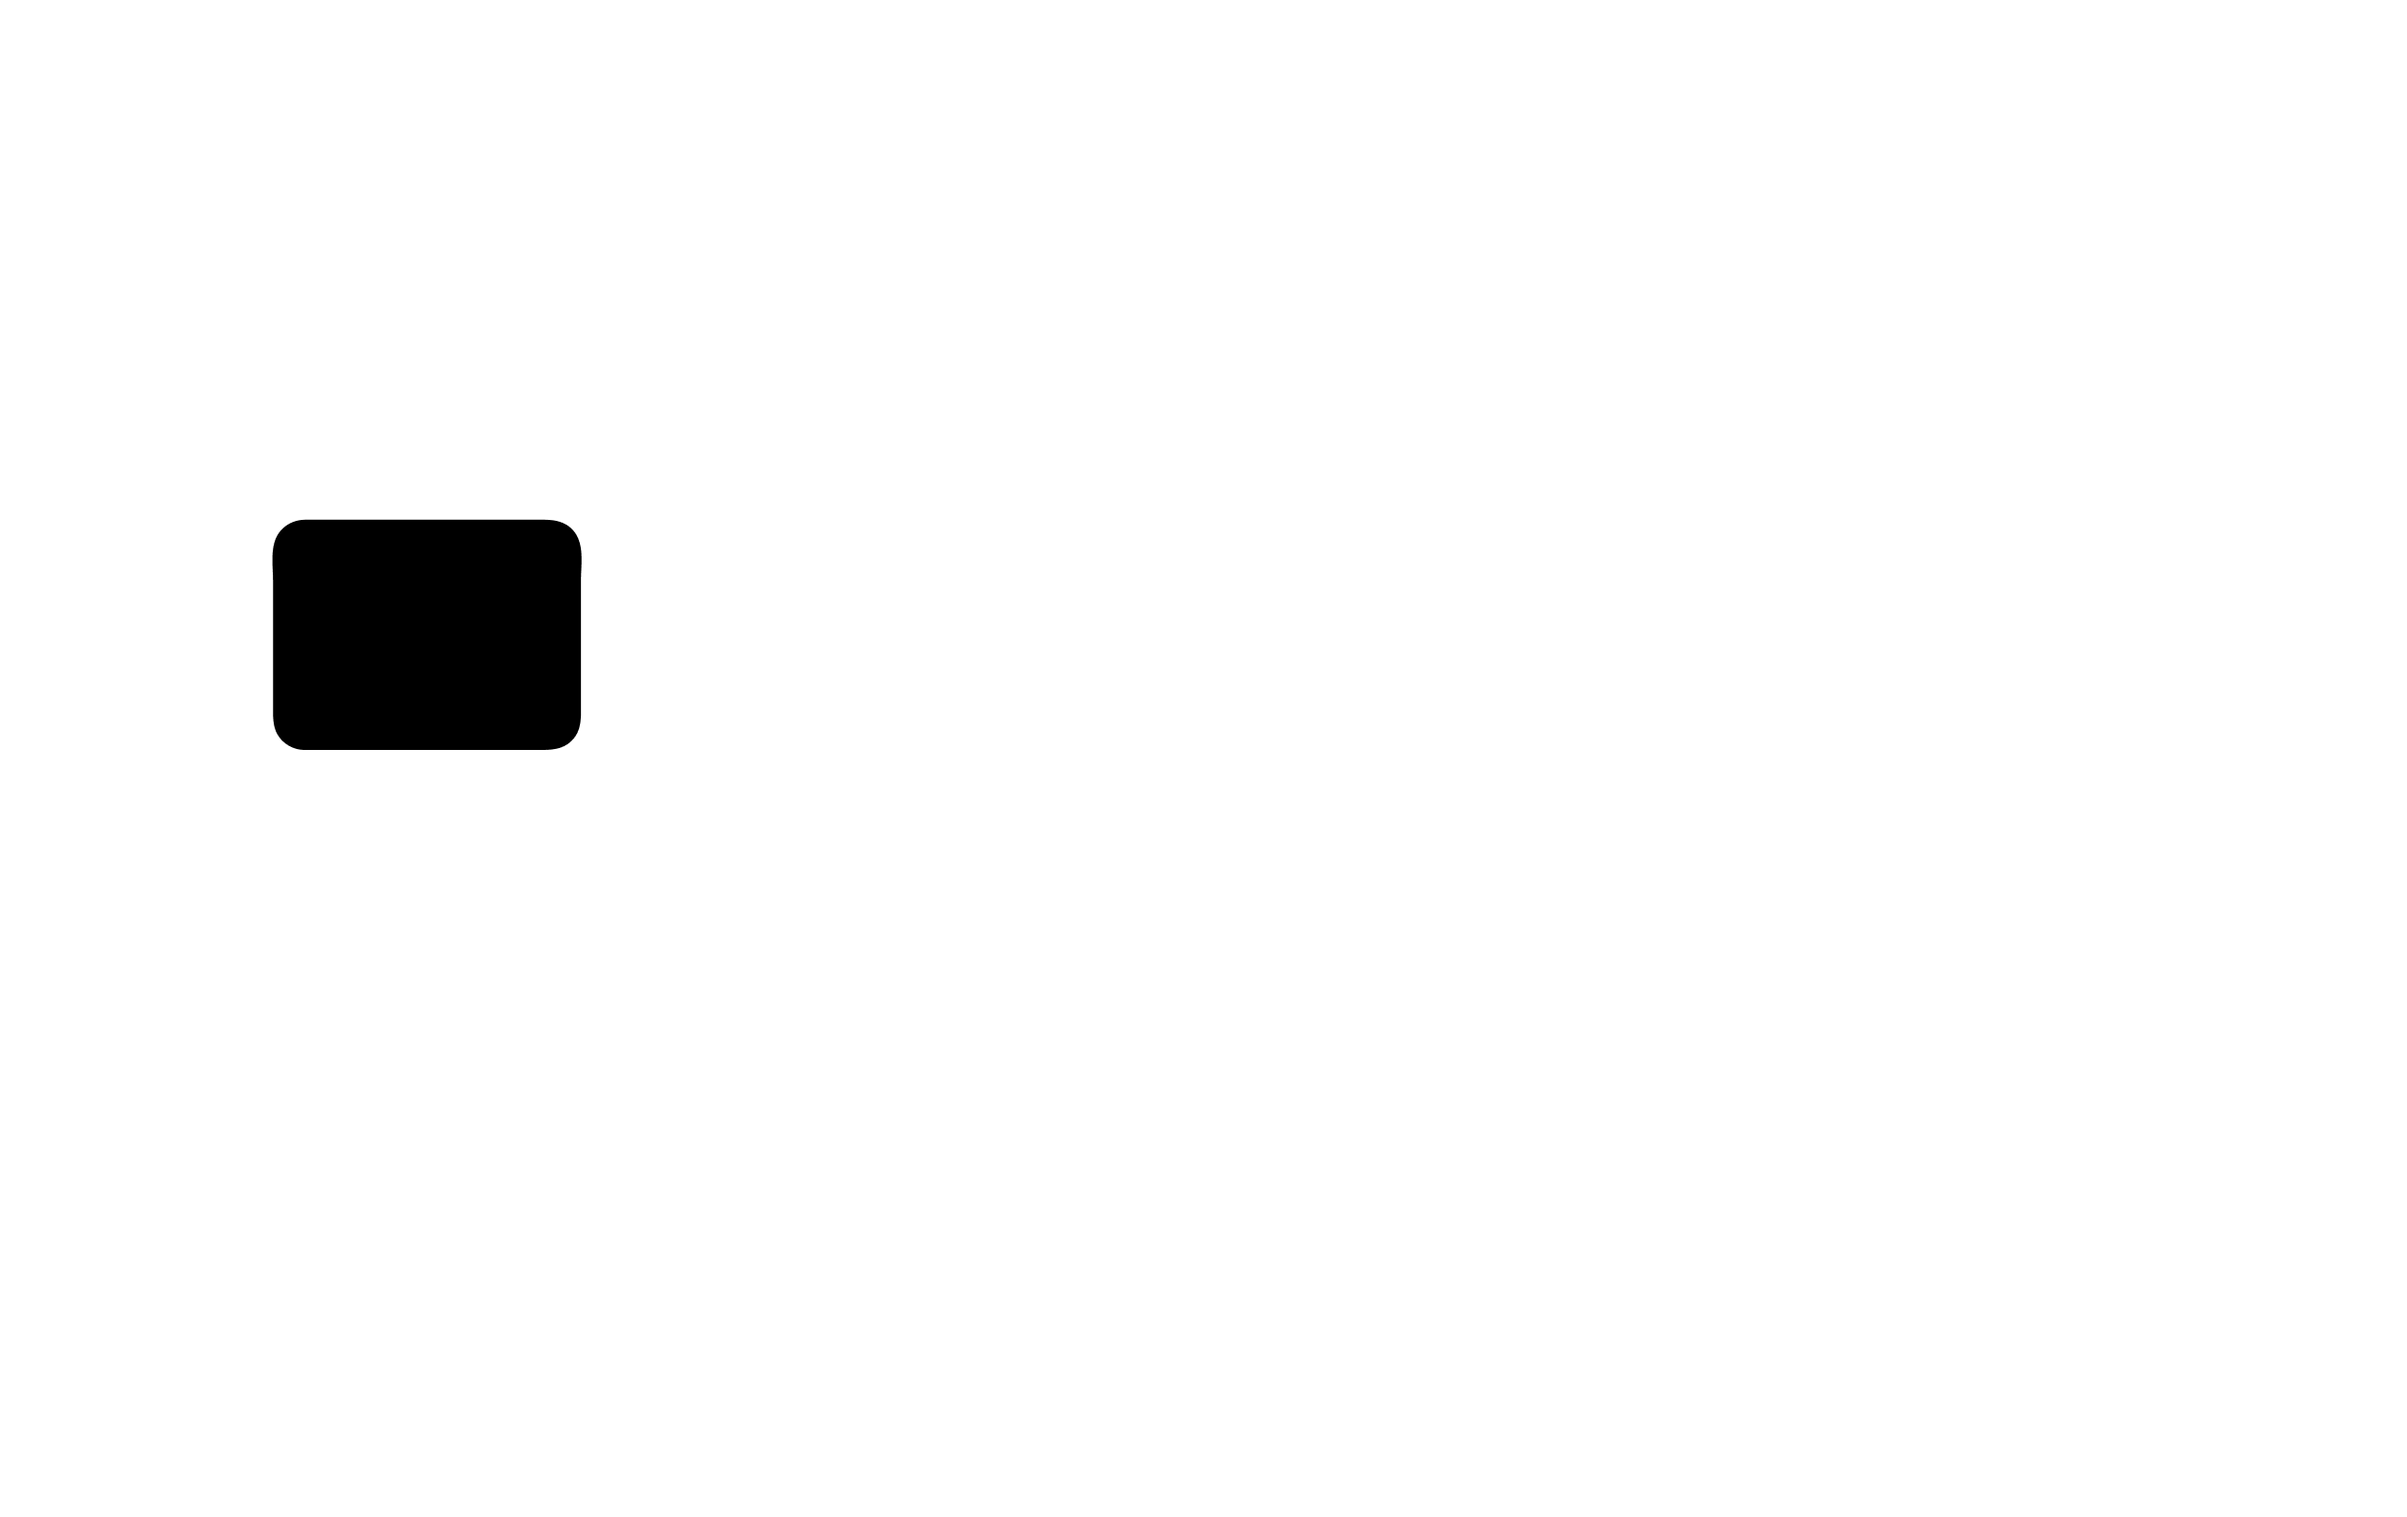
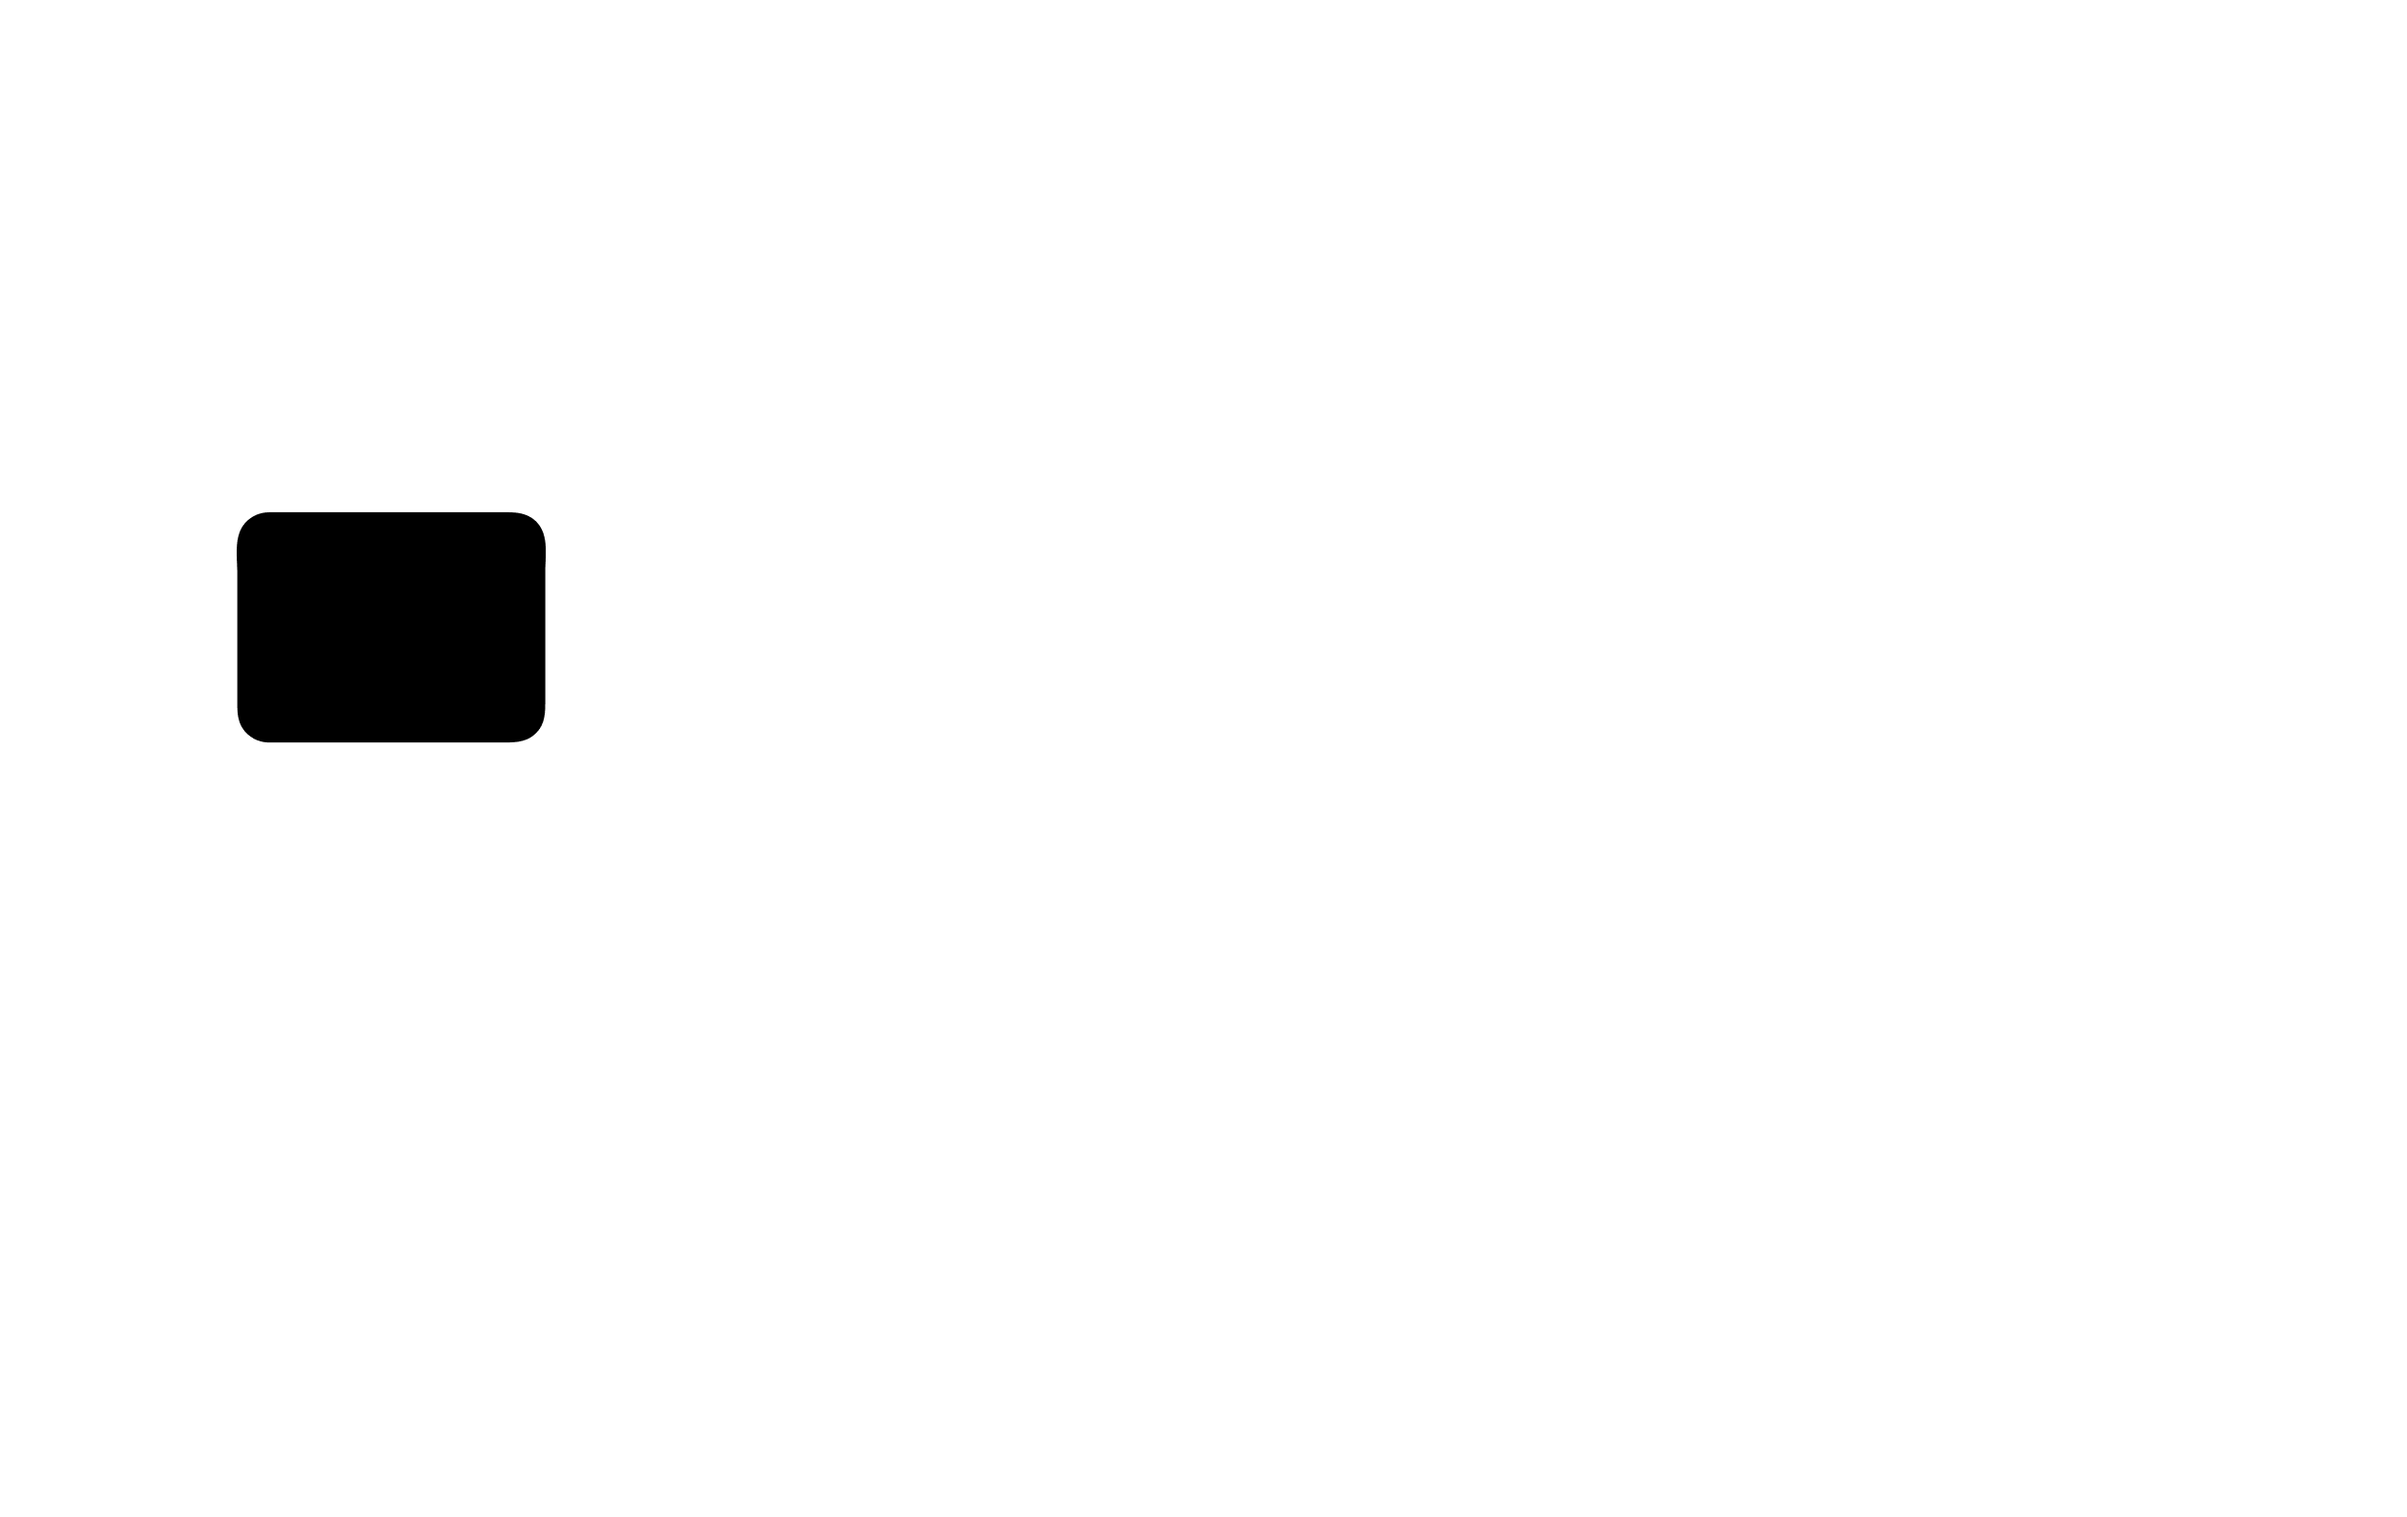
Refine third card artwork and foil

Changed region(s): [[0.0936, 0.3377, 0.2496, 0.4912], [0.1248, 0.4912, 0.2184, 0.5219]]

diff --git a/index.html b/index.html
@@ -210,10 +210,9 @@
 
         .skin-2-gradient {
             background: radial-gradient(
-                circle farthest-corner at 78% 88%,
-                #44E367 0%,
-                #44E367 40%,
-                #FDCE35 81%
+                circle farthest-corner at 50% 100%,
+                #44E367 17%,
+                #FAF2A7 100%
             );
         }
 
@@ -1050,21 +1049,15 @@
                 // Clamp before fractional powers so no spectral band can emit NaN.
                 float orange = pow(clamp(0.5 + 0.5 * cos(TAU * (phase - 0.24)), 0.0, 1.0), 3.2);
                 float yellow = pow(clamp(0.5 + 0.5 * cos(TAU * (phase - 0.44)), 0.0, 1.0), 3.0);
-                float green = pow(clamp(0.5 + 0.5 * cos(TAU * (phase - 0.64)), 0.0, 1.0), 3.4);
-                float cyan = pow(clamp(0.5 + 0.5 * cos(TAU * (phase - 0.84)), 0.0, 1.0), 4.2);
                 float orangeWeight = orange * 1.25;
                 float yellowWeight = yellow * 1.45;
-                float greenWeight = green * 0.72;
-                float cyanWeight = cyan * 0.12;
-                float totalWeight = orangeWeight + yellowWeight + greenWeight + cyanWeight;
+                float totalWeight = orangeWeight + yellowWeight;
                 vec3 foilColor = (
-                    vec3(0.96, 0.43, 0.08) * orangeWeight
-                    + vec3(1.00, 0.89, 0.10) * yellowWeight
-                    + vec3(0.34, 0.79, 0.19) * greenWeight
-                    + vec3(0.22, 0.74, 0.64) * cyanWeight
+                    vec3(0.92, 0.34, 0.04) * orangeWeight
+                    + vec3(0.98, 0.76, 0.06) * yellowWeight
                 ) / max(totalWeight, 0.001);
-                vec3 quietGreen = vec3(0.45, 0.68, 0.20);
-                return mix(quietGreen, foilColor, clamp(totalWeight * 0.72, 0.0, 1.0));
+                vec3 quietAmber = vec3(0.90, 0.54, 0.05);
+                return mix(quietAmber, foilColor, clamp(totalWeight * 0.72, 0.0, 1.0));
             }
 
             float splitLogoMaskSample(vec2 uv) {
@@ -1088,11 +1081,15 @@
 
             float organicBloom(vec2 uv, float angle, out float rightBloom) {
                 float tilt = sin(angle);
+                // Keep the resting bloom compact and concentrated near the top.
+                // As soon as the card turns, it opens back into the broad moving foil.
+                float frontalPose = 1.0 - smoothstep(0.0, 0.28, abs(tilt));
                 // At rest the broad matte foil bloom lives in the upper-left,
                 // then travels from that anchor as the card turns.
+                float horizontalTravel = mix(1.42, 0.86, step(0.0, tilt));
                 vec2 center = vec2(
-                    -0.10 - tilt * 0.78,
-                    1.10
+                    0.28 - tilt * horizontalTravel,
+                    1.10 + frontalPose * 0.08
                         + (sin(angle * 1.65 + 0.8) - sin(0.8)) * 0.14
                         + sin(angle * 3.10) * 0.035
                 );
@@ -1102,7 +1099,9 @@
                 p.x += sin(uv.y * 15.0 - angle * 0.9) * 0.020;
                 p.y += sin(uv.x * 5.0 - angle * 0.55) * 0.060;
 
-                float mainDistance = length(vec2(p.x / 0.68, p.y / 1.05));
+                float mainWidth = mix(0.58, 0.48, frontalPose);
+                float mainHeight = mix(0.86, 0.56, frontalPose);
+                float mainDistance = length(vec2(p.x / mainWidth, p.y / mainHeight));
                 float mainShape = exp(-0.92 * mainDistance * mainDistance);
 
                 vec2 secondaryCenter = center + vec2(
@@ -1111,14 +1110,17 @@
                 );
                 vec2 q = uv - secondaryCenter;
                 q.x += sin(uv.y * 9.0 - angle) * 0.055;
-                float secondaryDistance = length(vec2(q.x / 0.55, q.y / 0.82));
+                float secondaryWidth = mix(0.46, 0.38, frontalPose);
+                float secondaryHeight = mix(0.70, 0.48, frontalPose);
+                float secondaryDistance = length(vec2(q.x / secondaryWidth, q.y / secondaryHeight));
                 float secondaryShape = exp(-1.08 * secondaryDistance * secondaryDistance);
 
-                float softUnion = 1.0 - (1.0 - mainShape) * (1.0 - secondaryShape * 0.58);
+                float secondaryStrength = mix(0.42, 0.25, frontalPose);
+                float softUnion = 1.0 - (1.0 - mainShape) * (1.0 - secondaryShape * secondaryStrength);
 
                 // On a left turn the anchored bloom keeps travelling left while
                 // a second, similarly soft reflection enters from the right edge.
-                float leftTurn = smoothstep(0.05, 0.42, tilt);
+                float leftTurn = smoothstep(0.10, 0.48, tilt);
                 vec2 rightCenter = vec2(
                     1.16 - leftTurn * 0.25,
                     0.72 - tilt * 0.10
@@ -1126,10 +1128,10 @@
                 vec2 r = uv - rightCenter;
                 r.x += sin(uv.y * 6.5 - angle * 0.70) * 0.065;
                 r.y += sin(uv.x * 4.8 + angle * 0.45) * 0.050;
-                float rightDistance = length(vec2(r.x / 0.50, r.y / 0.82));
+                float rightDistance = length(vec2(r.x / 0.44, r.y / 0.72));
                 float rightShape = exp(-1.05 * rightDistance * rightDistance) * leftTurn;
 
-                rightBloom = clamp(rightShape * 0.92, 0.0, 1.0);
+                rightBloom = clamp(rightShape * 0.72, 0.0, 1.0);
                 return clamp(softUnion, 0.0, 1.0);
             }
 
@@ -1148,6 +1150,10 @@
                 float rightBloom;
                 float bloom = organicBloom(vUV, uRotationAngle, rightBloom);
                 float tilt = sin(uRotationAngle);
+                // The new artwork already contains its resting highlight.
+                // Reveal the procedural body foil only while the card is turning.
+                float turnBloomVisibility = smoothstep(0.04, 0.24, abs(tilt));
+                bloom *= turnBloomVisibility;
                 float logoFrontFacing = smoothstep(0.90, 0.995, cos(uRotationAngle));
                 float logoReliefVisibility = 0.42 + logoFrontFacing * 0.58;
                 vec2 logoLightDirection = normalize(vec2(-0.72, 0.69));
@@ -1171,21 +1177,27 @@
                 spectrum = mix(vec3(spectrumLuma), spectrum, uMatteHoloSaturation);
 
                 vec3 baseColor = tex.rgb * (0.62 + diffuse * 0.44);
-                baseColor *= vec3(0.94, 1.08, 0.91);
-                baseColor += vec3(0.005, 0.018, 0.002);
                 baseColor += vec3(surfaceSpec);
 
                 vec3 primarySpectrum = mix(
                     spectrum,
-                    vec3(1.00, 0.90, 0.42),
+                    vec3(0.98, 0.78, 0.18),
                     logoFrontFacing * 0.30
                 );
                 float bodyMix = bloom * (
-                    0.34 + uMatteHoloStrength + logoFrontFacing * 0.18
+                    0.22 + uMatteHoloStrength * 0.70 + logoFrontFacing * 0.10
                 );
-                vec3 bodyColor = mix(baseColor, primarySpectrum, min(bodyMix, 0.72));
+                // Neutralize the green artwork underneath the moving foil first.
+                // Otherwise a translucent yellow highlight produces a lime band.
+                float baseLuma = dot(baseColor, vec3(0.299, 0.587, 0.114));
+                vec3 warmFoundation = mix(baseColor, vec3(baseLuma), bloom * 0.28);
+                vec3 bodyColor = mix(
+                    warmFoundation,
+                    primarySpectrum,
+                    min(bodyMix, 0.46)
+                );
                 bodyColor += primarySpectrum * pow(bloom, 1.70)
-                    * (0.10 + logoFrontFacing * 0.08);
+                    * (0.040 + logoFrontFacing * 0.020);
 
                 // Give the entering reflection its own warmer spectral band so it
                 // remains legible against the green body instead of disappearing.
@@ -1196,9 +1208,11 @@
                     rightSpectrum,
                     min(1.0, uMatteHoloSaturation * 1.25)
                 );
-                float rightMix = rightBloom * (0.46 + uMatteHoloStrength);
+                float rightMix = rightBloom * (0.27 + uMatteHoloStrength * 0.70);
+                float rightBaseLuma = dot(bodyColor, vec3(0.299, 0.587, 0.114));
+                bodyColor = mix(bodyColor, vec3(rightBaseLuma), rightBloom * 0.24);
                 bodyColor = mix(bodyColor, rightSpectrum, rightMix);
-                bodyColor += rightSpectrum * pow(rightBloom, 2.0) * 0.12;
+                bodyColor += rightSpectrum * pow(rightBloom, 2.0) * 0.04;
 
                 float fineGrain = grain(vUV * 1150.0 + vec2(19.7, 73.1)) - 0.5;
                 bodyColor += vec3(fineGrain * (0.004 + bloom * 0.007));
